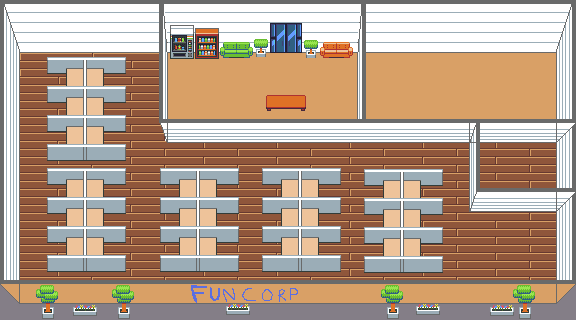
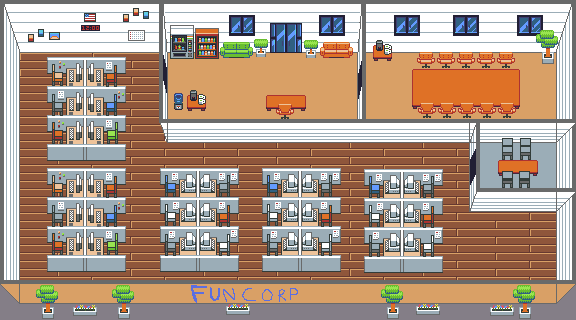
Added more detail to office sprite. Added animated clock

diff --git a/game.py b/game.py
@@ -13,9 +13,72 @@ class Game():
         self.office_image = pygame.image.load("graphics/office_building.png").convert_alpha()
         self.office_image = pygame.transform.scale2x(self.office_image)
 
+        NUMBER_WIDTH = 8
+        NUMBER_HEIGHT = 12
+        all_number_images = pygame.image.load("graphics/clock_numbers_2x.png").convert_alpha()
+        self.number_images = []
+        for digit in range(10):
+
+            self.number_images.append(pygame.Surface((NUMBER_WIDTH, NUMBER_HEIGHT), pygame.SRCALPHA))
+            self.number_images[digit].blit(source=all_number_images,
+                                dest=(0, 0),
+                                area=(0 + digit * 8, # left of character on sheet position
+                                      0, # top of character head on sheet position
+                                      NUMBER_WIDTH,
+                                      NUMBER_HEIGHT))
+
+        self.time = {
+            "hour": 6,
+            "minute": 59,
+            "second": 0
+        }
+
+    def update_time(self):
+        # Increment the second by 1. We are running at 60FPS so 1 real second will be 1 game minute
+        self.time["second"] += 1
+
+        # If the seconds passed 60, increase the minute
+        if self.time["second"] == 60:
+            self.time["second"] = 0
+            self.time["minute"] += 1
+
+            # Increment the hour for 60 minutes
+            if self.time["minute"] == 60:
+                self.time["minute"] = 0
+                self.time["hour"] += 1
+
+                # Reset the hour from 12 to 1
+                if self.time["hour"] == 13:
+                    self.time["hour"] = 1
+
     def update(self):
         self.player.update()
 
+        self.update_time()
+
+    def draw_clock(self):
+
+        CLOCK_POS_X = 222
+        CLOCK_POS_Y = 80
+        NUMBER_WIDTH = 8
+        COLON_WIDTH = 4
+
+        first_digit = self.time["hour"] // 10
+        self.screen.blit(self.number_images[first_digit],
+                         self.number_images[first_digit].get_rect().move(CLOCK_POS_X + NUMBER_WIDTH * 0,
+                                                                         CLOCK_POS_Y))
+        second_digit = self.time["hour"] % 10
+        self.screen.blit(self.number_images[second_digit],
+                         self.number_images[second_digit].get_rect().move(CLOCK_POS_X + NUMBER_WIDTH * 1,
+                                                                          CLOCK_POS_Y))
+        third_digit = self.time["minute"] // 10
+        self.screen.blit(self.number_images[third_digit],
+                         self.number_images[third_digit].get_rect().move(CLOCK_POS_X + COLON_WIDTH + NUMBER_WIDTH * 2,
+                                                                         CLOCK_POS_Y))
+        fourth_digit = self.time["minute"] % 10
+        self.screen.blit(self.number_images[fourth_digit],
+                         self.number_images[fourth_digit].get_rect().move(CLOCK_POS_X + COLON_WIDTH + NUMBER_WIDTH * 3,
+                                                                          CLOCK_POS_Y))
 
     def draw(self):
         self.screen.fill("purple")  # Fill the display with a solid color
@@ -27,3 +90,5 @@ class Game():
                          self.office_image.get_rect().move(60, 30))
                          
         self.player.draw(self.screen)
+
+        self.draw_clock()
